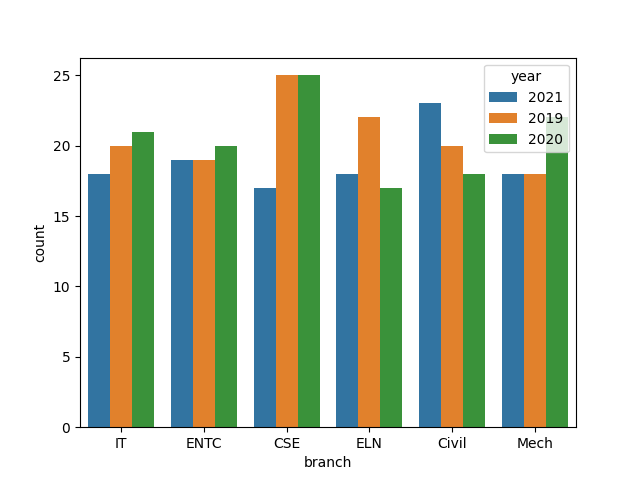
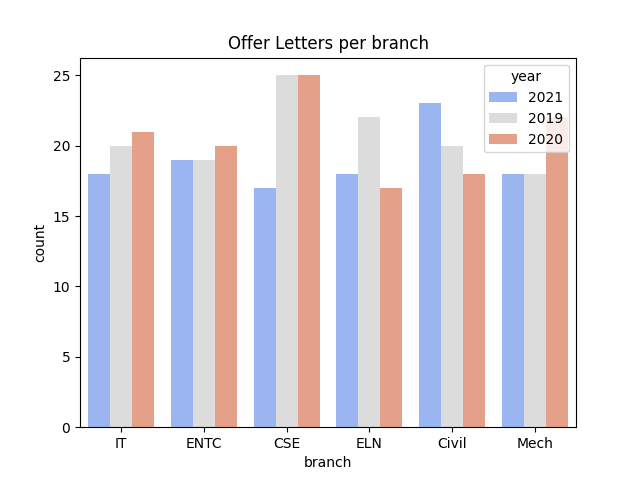
added basic detail data in dept level analysis

diff --git a/department_analysis.py b/department_analysis.py
@@ -19,19 +19,15 @@ class DepartmentTableLabel(MDLabel):
 class DepartmentGridYear(GridLayout):
     def __init__(self,**kw):
         super(DepartmentGridYear, self).__init__(**kw)
+
+class DepartmentGraphs(Screen):
+    # graphs screen
+    def __init__(self, **kw):
+        super(DepartmentGraphs, self).__init__(**kw)
+
 class DepartmentAnalysis(Screen):
     def __init__(self, **kw):
         super(DepartmentAnalysis,self).__init__(**kw)
-
-    def prepare_graphs(self):
-        self.pie_chart()
-        self.double_bar()
-        self.multiple_bar()
-        self.line_plot()
-        graphs=self.manager.get_screen('department_graphs')
-        # reload images
-        for i in range(1,5):
-            graphs.ids[str(i)].reload()
 
     def load_analysis(self):
         for k,v in flags.branch.items():
@@ -77,7 +73,57 @@ class DepartmentAnalysis(Screen):
                 # adding all 3 column grid to main gird
                 self.ids.grid.add_widget(temp)
 
+    
+class DepartmentBasicDetails(Screen):
+    def __init__(self, **kw):
+        super(DepartmentBasicDetails,self).__init__(**kw)
+
+    def load_basic_details(self):
+        # loads basic details
+        for k,v in flags.branch.items():
+            if v==flags.app.officer_branch:
+                branch=k
+                break
+        my_db, my_cursor = self.manager.my_db, self.manager.my_cursor
+        self.ids.grid.clear_widgets()
+        # retriving list of companies
+        my_db.ping(reconnect=True)
+        my_cursor.execute(f'''select distinct(co.name)
+                             from offer_letters as ol 
+                             inner join company as co on ol.company_id=co.company_id 
+                             inner join students as st on ol.enrollment_id=st.enrollment_id 
+                             where st.branch = {branch};''')
+        companies = my_cursor.fetchall()
+        for company in companies:
+            # add company
+            self.ids.grid.add_widget(DepartmentTableTitleLabel(text=str(company[0])))
+            for i in range(0,3):
+                # count of students placed for given for package and branch
+                my_cursor.execute(f'''select count(ol.enrollment_id) 
+                                from offer_letters as ol 
+                                inner join students as st on ol.enrollment_id=st.enrollment_id 
+                                inner join company as co on ol.company_id=co.company_id 
+                                where st.branch = {branch} and ol.finalised = '' and co.name = '{company[0]}' and st.pass_year=year(curdate())-{i};''')
+                self.ids.grid.add_widget(DepartmentTableLabel(text=str(my_cursor.fetchall()[0][0])))
+
+    def load_department(self):
+        # switch to full details screen
+        department_analysis_screen = self.manager.get_screen("department_analysis")
+        department_analysis_screen.load_analysis()
+
+    def prepare_graphs(self):
+        # prepares all graphs and reloads it from grphs directory
+        self.pie_chart()
+        self.double_bar()
+        self.multiple_bar()
+        self.line_plot()
+        graphs=self.manager.get_screen('department_graphs')
+        # reload images
+        for i in range(1,5):
+            graphs.ids[str(i)].reload()
+
     def pie_chart(self):
+        # pie chart for offer letters per company
         for k,v in flags.branch.items():
             if v==flags.app.officer_branch:
                 branch=k
@@ -96,6 +142,7 @@ class DepartmentAnalysis(Screen):
         plt.close('all')
     
     def double_bar(self):
+        # double bar graph for total students vs placed students for past 3 years
         for k,v in flags.branch.items():
             if v==flags.app.officer_branch:
                 branch=k
@@ -122,6 +169,7 @@ class DepartmentAnalysis(Screen):
         plt.close('all')
 
     def multiple_bar(self):
+        # multiple bar graph for offer letters provided by each company for past 3 years
         for k,v in flags.branch.items():
             if v==flags.app.officer_branch:
                 branch=k
@@ -144,6 +192,7 @@ class DepartmentAnalysis(Screen):
         plt.close('all')
 
     def line_plot(self):
+        # line plot for number of packages got for past 3 years
         for k,v in flags.branch.items():
             if v==flags.app.officer_branch:
                 branch=k
@@ -160,13 +209,9 @@ class DepartmentAnalysis(Screen):
         plt.title("Count of Package")
         plt.yticks(np.arange(max(df['count'])+5,step=5))
         plt.xlabel("Package")
-        plt.ylabel("Count")
+        plt.ylabel("Offer Count")
         plt.legend()
         # plt.show()
         plt.savefig("Graphs//dept_4.png")
         plt.close('all')
 
-
-class DepartmentGraphs(Screen):
-    def __init__(self, **kw):
-        super(DepartmentGraphs, self).__init__(**kw)

diff --git a/institute_analysis.py b/institute_analysis.py
@@ -33,6 +33,7 @@ class InstituteAnalysis(Screen):
                 branch=k
                 break
         my_db, my_cursor = self.manager.my_db, self.manager.my_cursor
+        self.ids.grid.clear_widgets()
         # retriving list of packages
         my_db.ping(reconnect=True)
         my_cursor.execute('''select distinct(co.package)
@@ -72,6 +73,7 @@ class InstituteAnalysis(Screen):
         df=pd.DataFrame(dat,columns=['branch','year'])
         sns.countplot(x=df['branch'],hue=df['year'],palette='coolwarm')
         # plt.show()
+        plt.title('Offer Letters per branch')
         plt.savefig("Graphs//inst_1.png")
         plt.close('all')
     
@@ -87,7 +89,7 @@ class InstituteAnalysis(Screen):
         my_db, my_cursor = self.manager.my_db, self.manager.my_cursor
         brch=[]
         my_db.ping(reconnect=True)
-        my_cursor.execute('select branch from students ;')
+        my_cursor.execute('select branch from students where pass_year = year(curdate());')
         for i in my_cursor:
             brch.append([branch[i[0]],'Total Students'])
         my_cursor.execute("select branch from students where  enrollment_id  in (select  enrollment_id from offer_letters where finalised='') and pass_year = year(curdate()) ;")
@@ -127,7 +129,7 @@ class InstituteAnalysis(Screen):
         plt.title("Count of Package")
         plt.yticks(np.arange(max(df['count'])+5,step=5))
         plt.xlabel("Package")
-        plt.ylabel("Branch")
+        plt.ylabel("No. of packages")
         plt.legend()
         # plt.show()
         plt.savefig("Graphs//inst_3.png")

diff --git a/main.py b/main.py
@@ -26,7 +26,7 @@ from finalize_offer import FinalizeOffer
 from analysis import Analysis
 from forgot_pass import ForgotPass
 from individual_level import IndividualLevel
-from department_analysis import DepartmentAnalysis, DepartmentGraphs
+from department_analysis import DepartmentAnalysis, DepartmentGraphs, DepartmentBasicDetails
 from institute_analysis import InstituteAnalysis, InstituteGraphs
 from pre_register import PreRegister
 #################################################
@@ -60,6 +60,7 @@ class Manager(ScreenManager):
         self.add_widget(Analysis(name='analysis'))
         self.add_widget(ForgotPass(name='forgot_pass'))
         self.add_widget(IndividualLevel(name='individual_level'))
+        self.add_widget(DepartmentBasicDetails(name='department_basic_details'))
         self.add_widget(DepartmentAnalysis(name='department_analysis'))
         self.add_widget(DepartmentGraphs(name='department_graphs'))
         self.add_widget(InstituteAnalysis(name='institute_analysis'))

diff --git a/database.py b/database.py
@@ -13,8 +13,8 @@ from kivymd.app import MDApp
 
 def db_connector():
     # connects to database
-    my_db = MYSQL.connect(host='remotemysql.com',username=config('remote_user'),passwd=config('remote_passwd'),database='PKuyMx1oEg', port=3306)
-    # my_db = MYSQL.connect(host='localhost',username=config('user'),passwd=config('passwd'),database='wit_tnp')
+    # my_db = MYSQL.connect(host='remotemysql.com',username=config('remote_user'),passwd=config('remote_passwd'),database='PKuyMx1oEg', port=3306)
+    my_db = MYSQL.connect(host='localhost',username=config('user'),passwd=config('passwd'),database='wit_tnp')
     my_cursor = my_db.cursor()
     return my_db, my_cursor
 

diff --git a/analysis.py b/analysis.py
@@ -11,8 +11,8 @@ class Analysis(Screen):
         individual_screen.load_table()
     
     def load_department(self):
-        department_analysis_screen = self.manager.get_screen("department_analysis")
-        department_analysis_screen.load_analysis()
+        department_basic_analysis_screen = self.manager.get_screen("department_basic_details")
+        department_basic_analysis_screen.load_basic_details()
 
     def load_institute(self):
         department_analysis_screen = self.manager.get_screen("institute_analysis")
